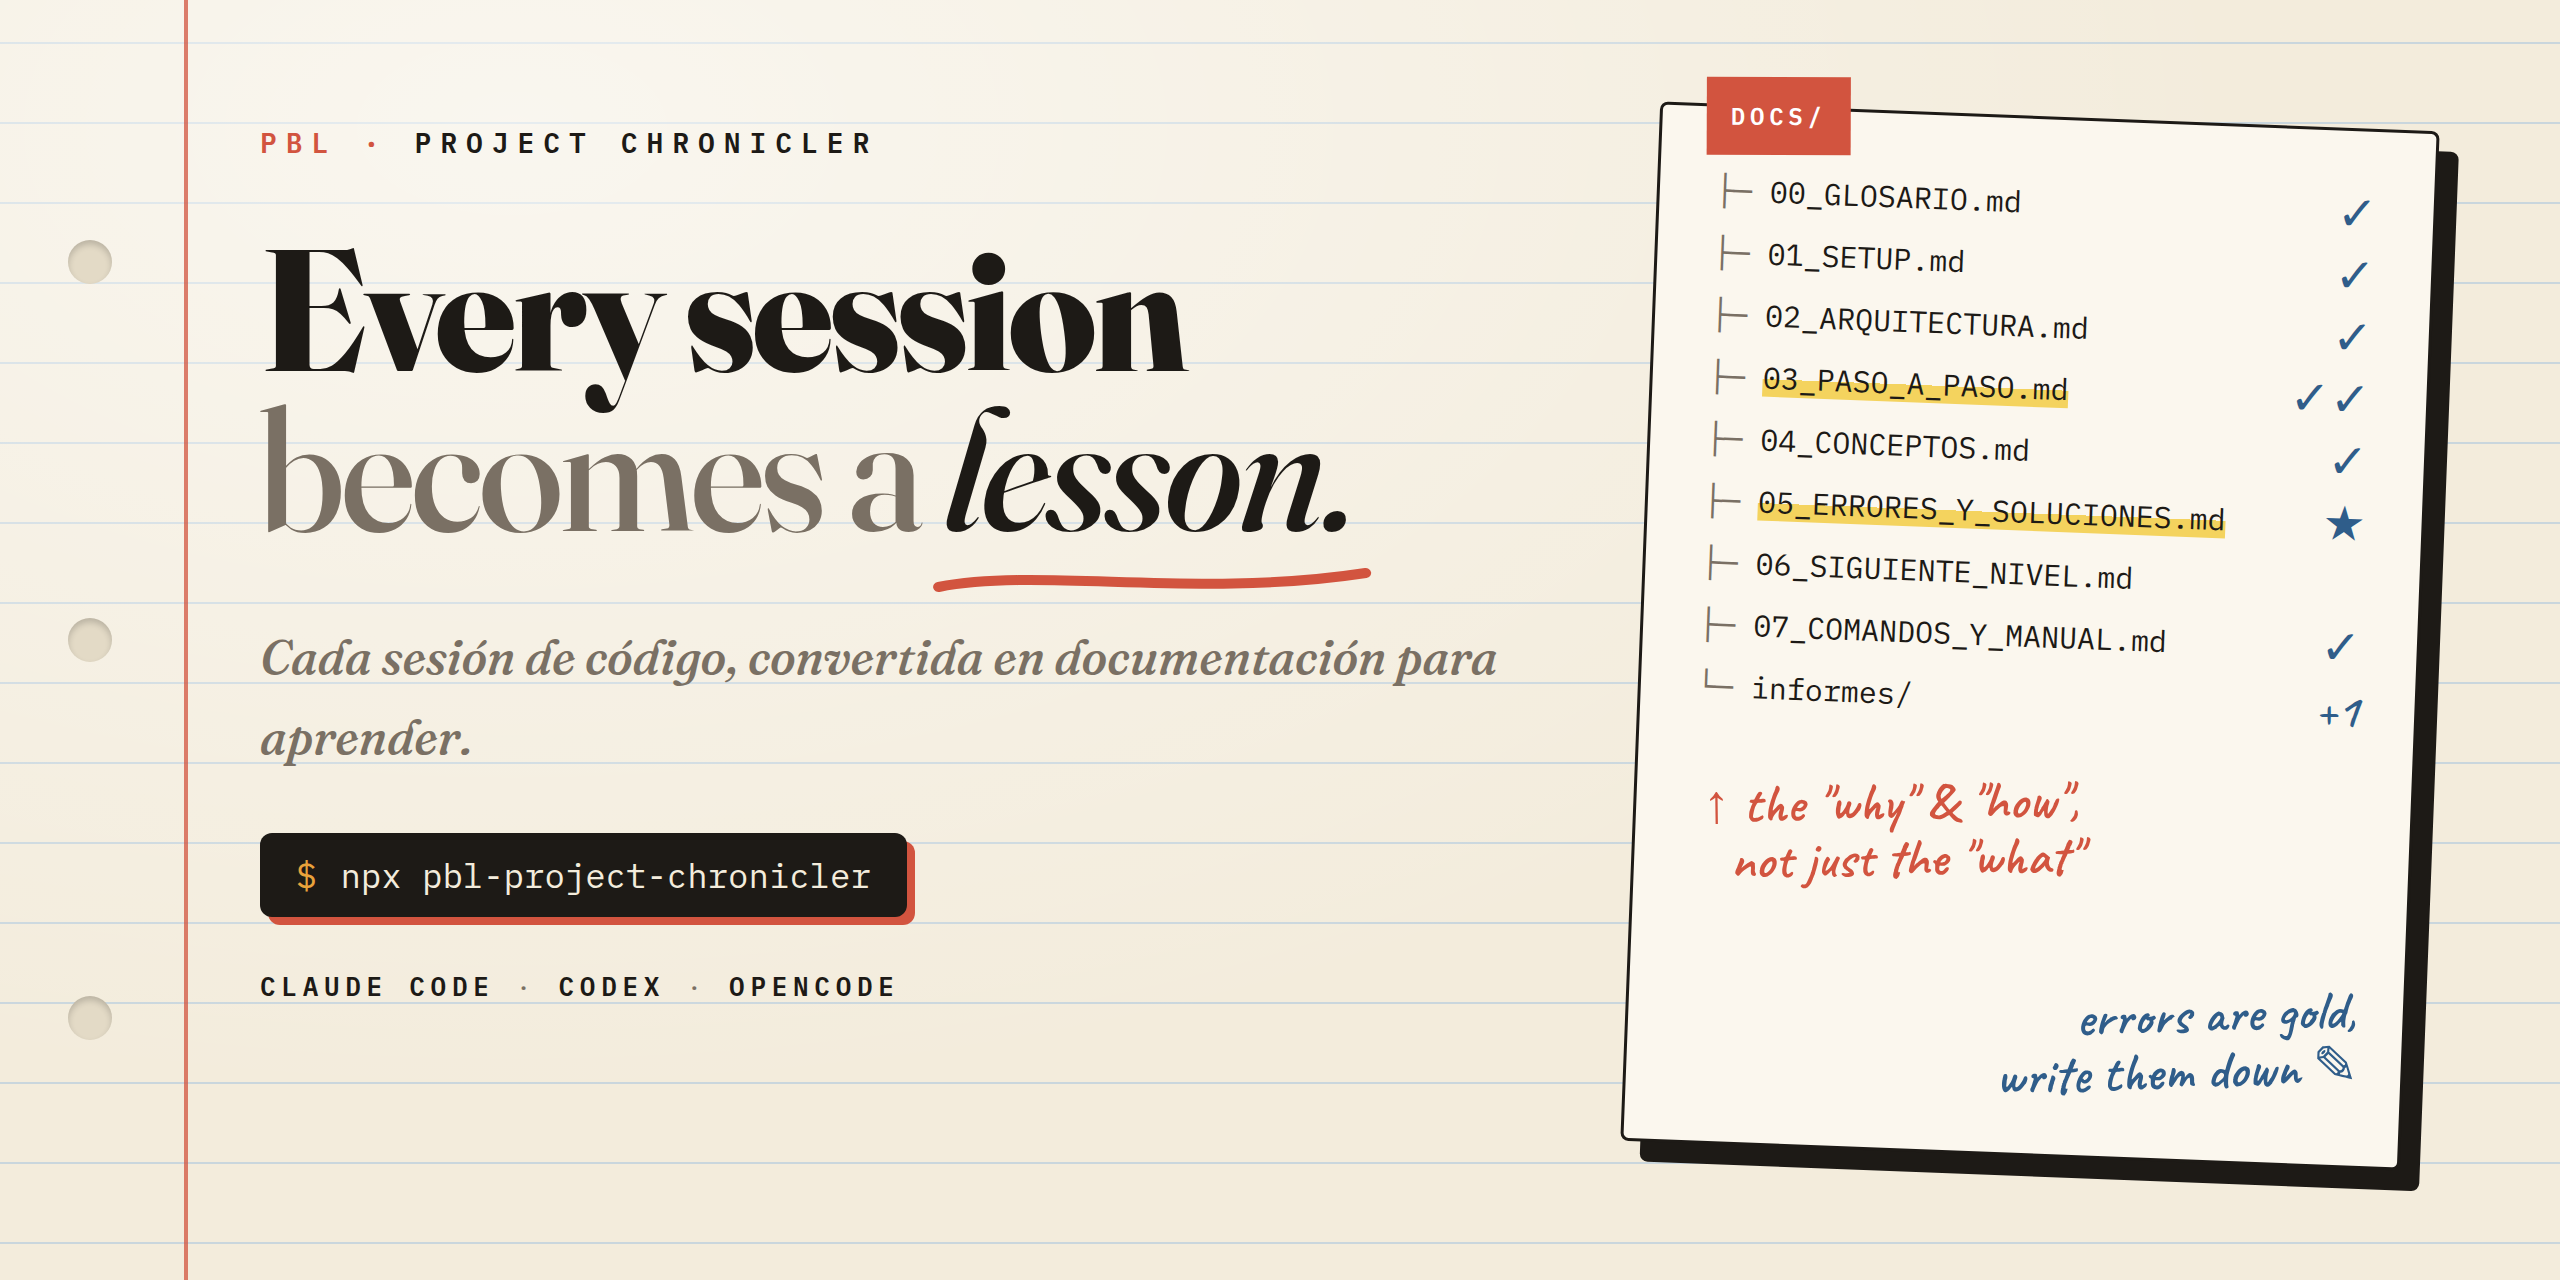
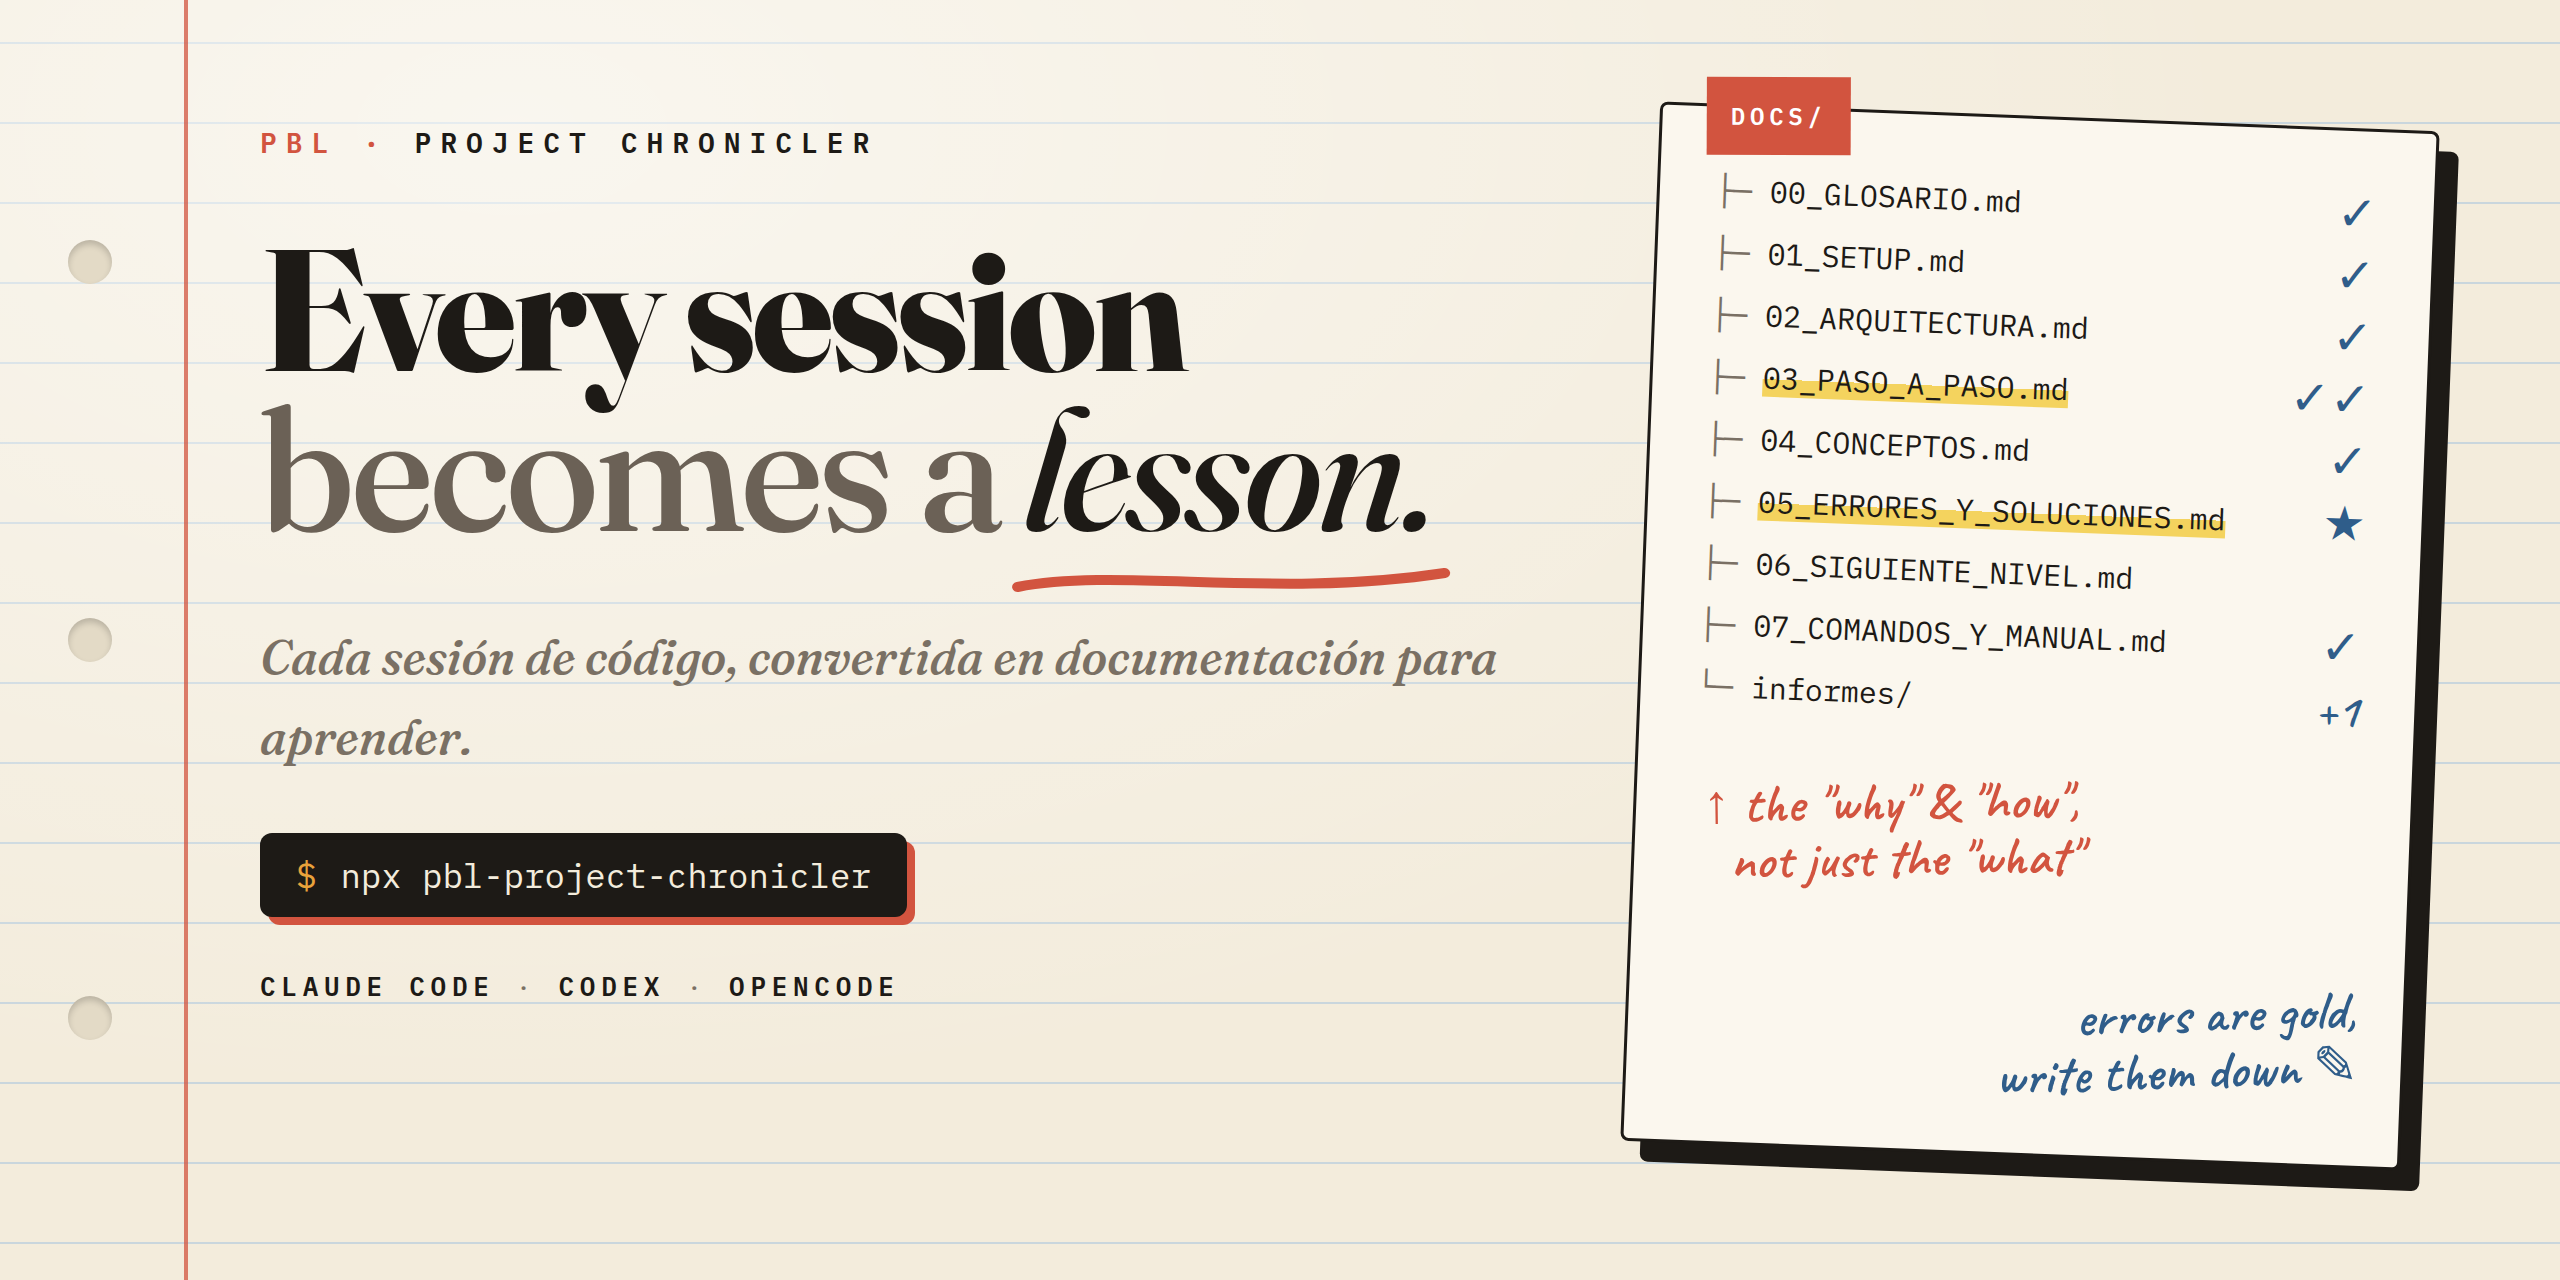
fix(assets): mejor legibilidad de 'becomes' en social preview (opsz 72)

Changed region(s): [[0.0938, 0.3125, 0.5625, 0.4688]]

diff --git a/assets/banner.html b/assets/banner.html
@@ -39,7 +39,7 @@
     font-family: 'Fraunces', serif; font-weight: 800; font-size: 86px; line-height: 80px;
     letter-spacing: -.02em; margin-top: 34px; font-variation-settings: 'opsz' 144;
   }
-  h1 .soft { font-weight: 500; color: var(--muted); }
+  h1 .soft { font-weight: 500; color: #6b6156; font-variation-settings: "opsz" 72; letter-spacing: -.025em; }
   h1 em { font-style: italic; font-weight: 500; position: relative; }
   h1 em svg { position: absolute; left: -6px; bottom: -14px; width: calc(100% + 16px); height: 22px; }
   .es { font-family: 'Fraunces', serif; font-style: italic; font-size: 24px; color: var(--muted); margin-top: 34px; line-height: 40px; }
